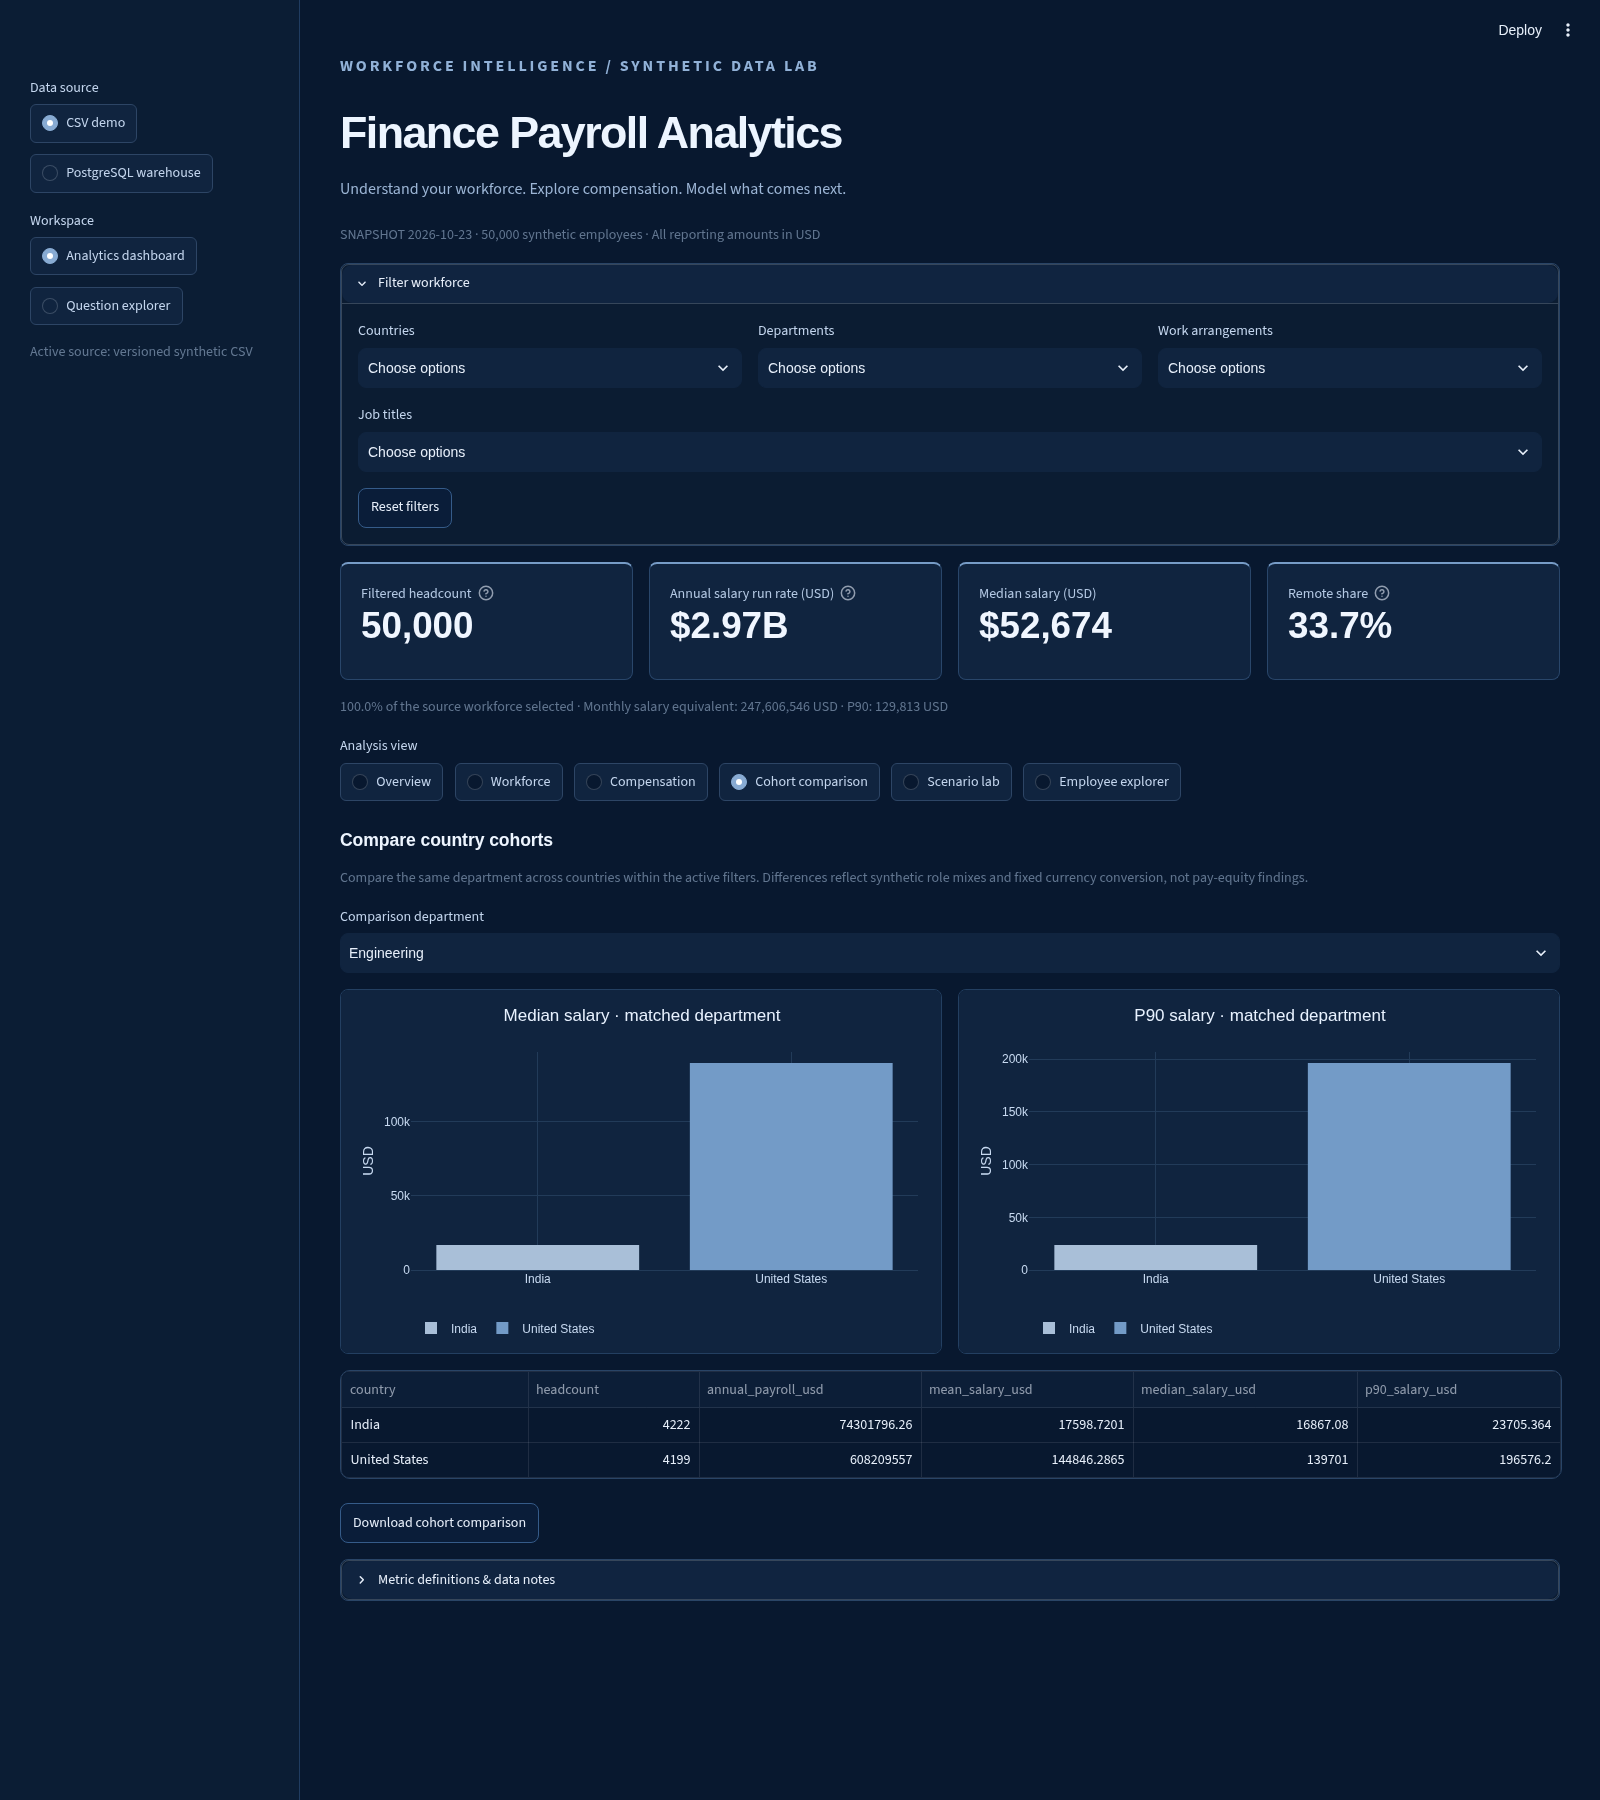
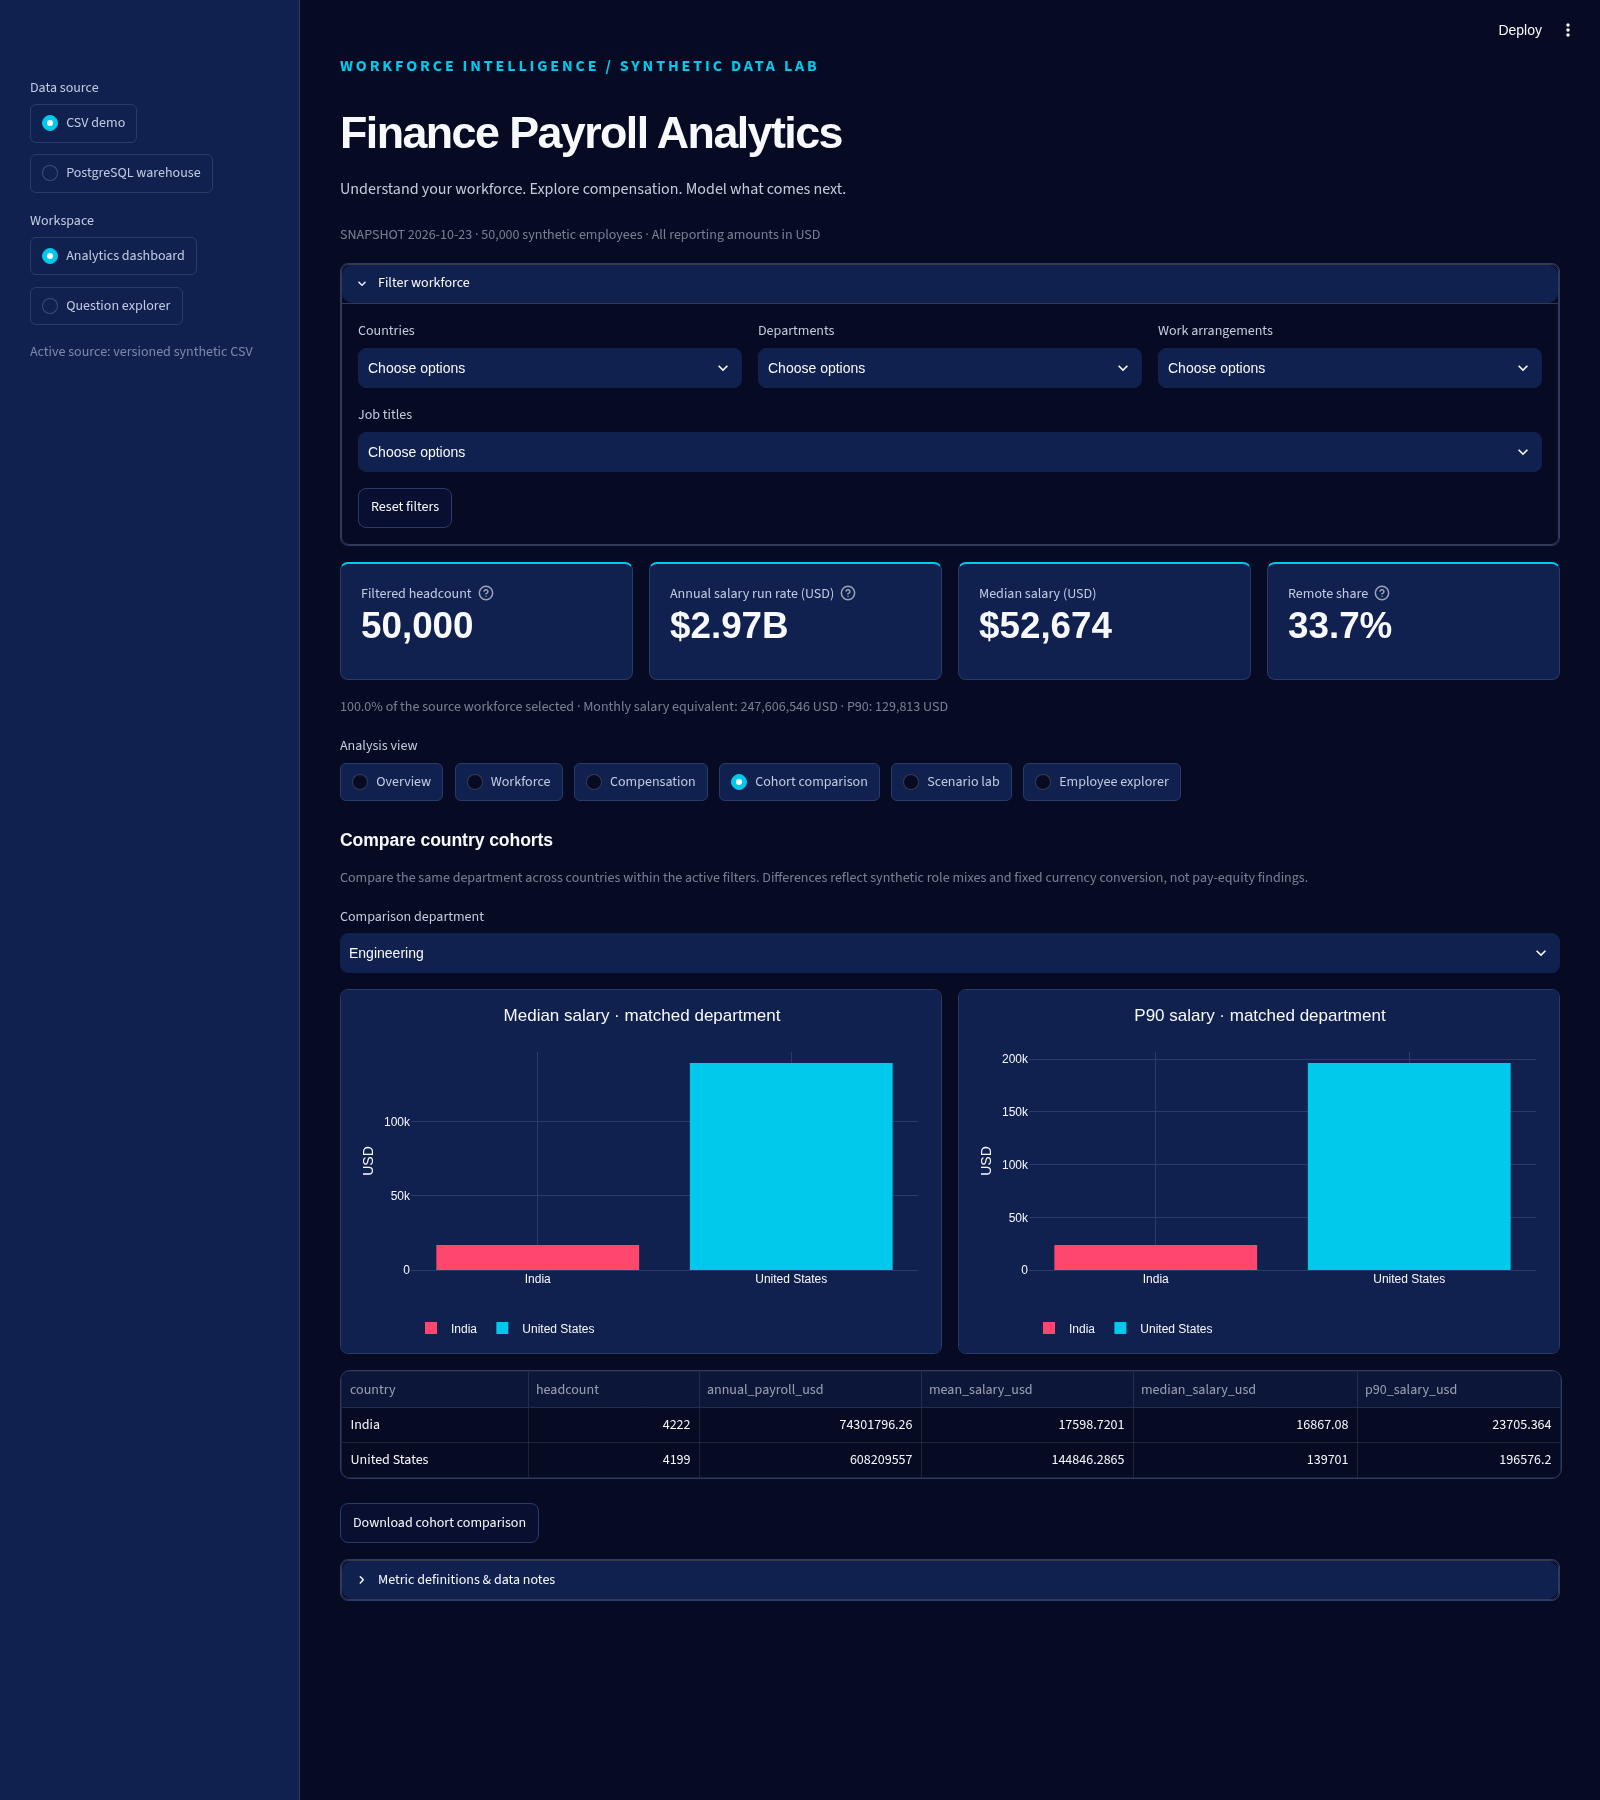
Apply reference palette with dominant deep navy and cyan coral accents

diff --git a/app/style.css b/app/style.css
@@ -1,40 +1,40 @@
 :root { color-scheme: dark; }
 .stApp {
-    background: #08182f;
-    color: #e7effa;
+    background: #060b23;
+    color: #f8f9fc;
     font-family: Inter, "Segoe UI", Arial, sans-serif;
 }
-[data-testid="stSidebar"] { background: #0b1d34; border-right: 1px solid #203c60; }
-[data-testid="stHeader"] { background: #08182f; }
+[data-testid="stSidebar"] { background: #10214f; border-right: 1px solid #293b69; }
+[data-testid="stHeader"] { background: #060b23; }
 .block-container { max-width: 1640px; padding: 2.3rem 2.5rem 3rem; }
-h1, h2, h3 { font-family: Inter, "Segoe UI", Arial, sans-serif !important; letter-spacing: -.035em; color: #edf5ff !important; }
+h1, h2, h3 { font-family: Inter, "Segoe UI", Arial, sans-serif !important; letter-spacing: -.035em; color: #f8f9fc !important; }
 h1 { font-size: clamp(1.8rem, 3vw, 2.8rem) !important; font-weight: 750 !important; margin-bottom: .25rem; }
 h2 { font-size: 1.5rem !important; } h3 { font-size: 1.1rem !important; }
-.subtitle { color: #9cb5d5; font-size: .98rem; margin-bottom: 1.4rem; }
-.eyebrow { color: #91b1d7; text-transform: uppercase; font-size: .7rem; letter-spacing: .18em; font-weight: 700; margin: 0 0 .5rem; }
+.subtitle { color: #c2cbe0; font-size: .98rem; margin-bottom: 1.4rem; }
+.eyebrow { color: #00c9eb; text-transform: uppercase; font-size: .7rem; letter-spacing: .18em; font-weight: 700; margin: 0 0 .5rem; }
 [data-testid="stMetric"] {
-    background: #10243f;
-    border: 1px solid #29466a; border-top: 2px solid #779cc7;
+    background: #10214f;
+    border: 1px solid #293b69; border-top: 2px solid #00c9eb;
     border-radius: 8px; padding: 1.1rem 1.25rem; min-height: 118px;
     box-shadow: none;
 }
-[data-testid="stMetricLabel"] { color: #b4c9e4; font-size: .82rem; }
-[data-testid="stMetricValue"] { color: #f0f6ff; font-size: clamp(1.65rem,2.4vw,2.3rem); font-weight: 650; }
-[data-testid="stExpander"] { border: 1px solid #294466; border-radius: 8px; background: #0b1c32; }
-[data-testid="stExpander"] summary { background: #102440; border-radius: 10px; }
+[data-testid="stMetricLabel"] { color: #c2cbe0; font-size: .82rem; }
+[data-testid="stMetricValue"] { color: #f8f9fc; font-size: clamp(1.65rem,2.4vw,2.3rem); font-weight: 650; }
+[data-testid="stExpander"] { border: 1px solid #293b69; border-radius: 8px; background: #060b23; }
+[data-testid="stExpander"] summary { background: #10214f; border-radius: 10px; }
 [data-testid="stRadio"] label, [data-testid="stMultiSelect"] label,
-[data-testid="stSelectbox"] label, [data-testid="stSlider"] label { color: #c4d6ee !important; }
-[data-baseweb="select"] > div, [data-baseweb="input"] { background: #112b49 !important; border-color: #35567d !important; }
-input, textarea { color: #e7effa !important; -webkit-text-fill-color: #e7effa !important; }
+[data-testid="stSelectbox"] label, [data-testid="stSlider"] label { color: #c2cbe0 !important; }
+[data-baseweb="select"] > div, [data-baseweb="input"] { background: #10214f !important; border-color: #293b69 !important; }
+input, textarea { color: #f8f9fc !important; -webkit-text-fill-color: #f8f9fc !important; }
 [data-testid="stButton"] button, [data-testid="stDownloadButton"] button {
-    border-radius: 8px; border-color: #355b89; font-weight: 600;
+    border-radius: 8px; border-color: #293b69; font-weight: 600;
 }
-[data-testid="stButton"] button[kind="primary"] { background: #2c7ed6; color: #fff; }
-[data-testid="stPlotlyChart"] { border: 1px solid #233f61; border-radius: 8px; overflow: hidden; }
-[data-testid="stDataFrame"] { border: 1px solid #294466; border-radius: 10px; overflow: hidden; }
-[data-testid="stCaptionContainer"] { color: #9db4d0; }
-.agent-message { background: #102947; border: 1px solid #31537c; padding: 1.2rem; border-radius: 8px; margin-bottom: 1rem; }
-hr { border-color: #25405f !important; }
+[data-testid="stButton"] button[kind="primary"] { background: #00c9eb; color: #060b23; }
+[data-testid="stPlotlyChart"] { border: 1px solid #293b69; border-radius: 8px; overflow: hidden; }
+[data-testid="stDataFrame"] { border: 1px solid #293b69; border-radius: 10px; overflow: hidden; }
+[data-testid="stCaptionContainer"] { color: #c2cbe0; }
+.agent-message { background: #10214f; border: 1px solid #293b69; padding: 1.2rem; border-radius: 8px; margin-bottom: 1rem; }
+hr { border-color: #293b69 !important; }
 @media (max-width: 760px) {
     .block-container { padding: 1.2rem 1rem; }
     [data-testid="stMetric"] { min-height: 98px; padding: .8rem; }
@@ -50,7 +50,16 @@ hr { border-color: #25405f !important; }
 }
 [data-testid="stRadio"] [role="radiogroup"] { gap: .7rem; }
 [data-testid="stRadio"] [role="radiogroup"] label {
-    padding: .45rem .7rem; border: 1px solid #2d4565;
-    border-radius: 6px; background: #10243f;
+    padding: .45rem .7rem; border: 1px solid #293b69;
+    border-radius: 6px; background: #10214f;
 }
-.insight-card { background: #10243f; border: 1px solid #2d4565; border-left: 3px solid #88abd3; border-radius: 6px; padding: .9rem 1.15rem; margin: .7rem 0 1rem; color: #c6d5e8; }
+.insight-card { background: #10214f; border: 1px solid #293b69; border-left: 3px solid #00c9eb; border-radius: 6px; padding: .9rem 1.15rem; margin: .7rem 0 1rem; color: #c2cbe0; }
+
+/* Reference palette: first navy is the dominant page color. */
+[data-testid="stButton"] button[kind="primary"] {
+    background: #00c9eb !important; border-color: #00c9eb !important;
+    color: #060b23 !important; -webkit-text-fill-color: #060b23 !important;
+}
+[data-testid="stMetric"]:nth-child(1) { border-top-color: #00c9eb; }
+[data-testid="stSidebar"] .eyebrow { color: #ff466e; }
+::selection { background: #ff466e; color: #060b23; }

diff --git a/app/dashboard.py b/app/dashboard.py
@@ -218,7 +218,7 @@ def main():
                     go.Histogram(
                         x=results["annual_salary_usd"],
                         nbinsx=20,
-                        marker=dict(color="#8b9fc9", line=dict(color="#6b8db5", width=1)),
+                        marker=dict(color="#00c9eb", line=dict(color="#00c9eb", width=1)),
                         opacity=0.8,
                     )
                 )
@@ -227,7 +227,7 @@ def main():
                     title="Salary Distribution",
                     plot_bgcolor="rgba(0,0,0,0)",
                     paper_bgcolor="rgba(0,0,0,0)",
-                    font=dict(color="#b8c8d8"),
+                    font=dict(color="#f8f9fc"),
                     height=450,
                     xaxis=dict(showgrid=True, gridcolor="rgba(255,255,255,0.05)"),
                     yaxis=dict(showgrid=True, gridcolor="rgba(255,255,255,0.05)"),
@@ -245,7 +245,7 @@ def main():
                             go.Box(
                                 y=dept_data["annual_salary_usd"],
                                 name=dept,
-                                marker=dict(color="#8b9fc9"),
+                                marker=dict(color="#00c9eb"),
                             )
                         )
 
@@ -253,7 +253,7 @@ def main():
                         title="Department Comparison",
                         plot_bgcolor="rgba(0,0,0,0)",
                         paper_bgcolor="rgba(0,0,0,0)",
-                        font=dict(color="#b8c8d8"),
+                        font=dict(color="#f8f9fc"),
                         height=450,
                     )
 
@@ -271,7 +271,7 @@ def main():
                             orientation="h",
                             marker=dict(
                                 color=top10["annual_salary_usd"],
-                                colorscale="Blues",
+                                colorscale=[[0, "#10214f"], [1, "#00c9eb"]],
                                 line=dict(color="rgba(139,159,201,0.3)", width=1),
                             ),
                             text=top10["annual_salary_usd"].apply(lambda x: f"${x / 1000:.0f}K"),
@@ -284,7 +284,7 @@ def main():
                     title="Top 10 by Salary",
                     plot_bgcolor="rgba(0,0,0,0)",
                     paper_bgcolor="rgba(0,0,0,0)",
-                    font=dict(color="#b8c8d8"),
+                    font=dict(color="#f8f9fc"),
                     height=500,
                     showlegend=False,
                     xaxis=dict(showgrid=True, gridcolor="rgba(255,255,255,0.05)"),
@@ -310,13 +310,13 @@ def main():
                         size="Employees",
                         color="Country",
                         hover_name="City",
-                        color_discrete_map={"United States": "#8b9fc9", "India": "#76b97f"},
+                        color_discrete_map={"United States": "#00c9eb", "India": "#ff466e"},
                     )
 
                     fig.update_layout(
                         plot_bgcolor="rgba(0,0,0,0)",
                         paper_bgcolor="rgba(0,0,0,0)",
-                        font=dict(color="#b8c8d8"),
+                        font=dict(color="#f8f9fc"),
                         height=500,
                     )
 
@@ -333,7 +333,7 @@ def main():
                     fig2.update_layout(
                         plot_bgcolor="rgba(0,0,0,0)",
                         paper_bgcolor="rgba(0,0,0,0)",
-                        font=dict(color="#0a0e14"),
+                        font=dict(color="#f8f9fc"),
                         height=500,
                     )
 

diff --git a/app/reporting.py b/app/reporting.py
@@ -99,17 +99,27 @@ def chart(figure):
     import streamlit as st
 
     figure.update_layout(
-        paper_bgcolor="#10243f",
-        plot_bgcolor="#10243f",
-        font={"color": "#c8daf1", "family": "Segoe UI, Arial"},
-        title_font={"size": 17, "color": "#e8f2ff"},
+        paper_bgcolor="#10214f",
+        plot_bgcolor="#10214f",
+        font={"color": "#f8f9fc", "family": "Segoe UI, Arial"},
+        title_font={"size": 17, "color": "#f8f9fc"},
         margin={"l": 70, "r": 25, "t": 62, "b": 30},
         height=365,
-        colorway=["#739bc7", "#a9bfd8", "#4875a6", "#c1d2e5", "#345a83"],
+        colorway=["#00c9eb", "#ff466e", "#8da6db", "#f8f9fc", "#4676ab"],
         legend={"orientation": "h", "y": -0.2, "title_text": ""},
     )
-    figure.update_xaxes(gridcolor="#223b59", zerolinecolor="#223b59")
-    figure.update_yaxes(gridcolor="#223b59", zerolinecolor="#223b59")
+    # Keep categorical charts within the reference palette, including default Plotly traces.
+    accents = ["#00c9eb", "#ff466e", "#8da6db", "#f8f9fc"]
+    for index, trace in enumerate(figure.data):
+        if trace.type == "pie":
+            trace.marker.colors = accents[: len(trace.labels)]
+            trace.textfont = {"color": "#060b23"}
+        elif trace.type in {"bar", "box"} and isinstance(trace.marker.color, (str, type(None))):
+            trace.marker.color = {"United States": "#00c9eb", "India": "#ff466e"}.get(
+                trace.name, accents[index % len(accents)]
+            )
+    figure.update_xaxes(gridcolor="#293b69", zerolinecolor="#293b69")
+    figure.update_yaxes(gridcolor="#293b69", zerolinecolor="#293b69")
     st.plotly_chart(figure, width="stretch", theme=None)
 
 
@@ -179,7 +189,7 @@ def render_overview(frame):
         ],
         horizontal=True,
     )
-    palette = {"United States": "#739bc7", "India": "#a9bfd8"}
+    palette = {"United States": "#00c9eb", "India": "#ff466e"}
     groups = department_summary(filtered)
     if view == "Overview":
         st.subheader("Workforce & compensation overview")
@@ -220,7 +230,7 @@ def render_overview(frame):
                     values="employees",
                     hole=0.7,
                     title="How the workforce works",
-                    color_discrete_sequence=["#739bc7", "#a9bfd8", "#4875a6"],
+                    color_discrete_sequence=["#00c9eb", "#ff466e", "#8da6db"],
                 )
             )
         leading = groups.iloc[0]
@@ -326,7 +336,7 @@ def render_overview(frame):
                     medians,
                     text_auto=",.0f",
                     aspect="auto",
-                    color_continuous_scale=["#102b4a", "#2467a0", "#58c7e8"],
+                    color_continuous_scale=["#10214f", "#167ba5", "#00c9eb"],
                     title="Median salary by country & department",
                     labels={"color": "USD"},
                 )
